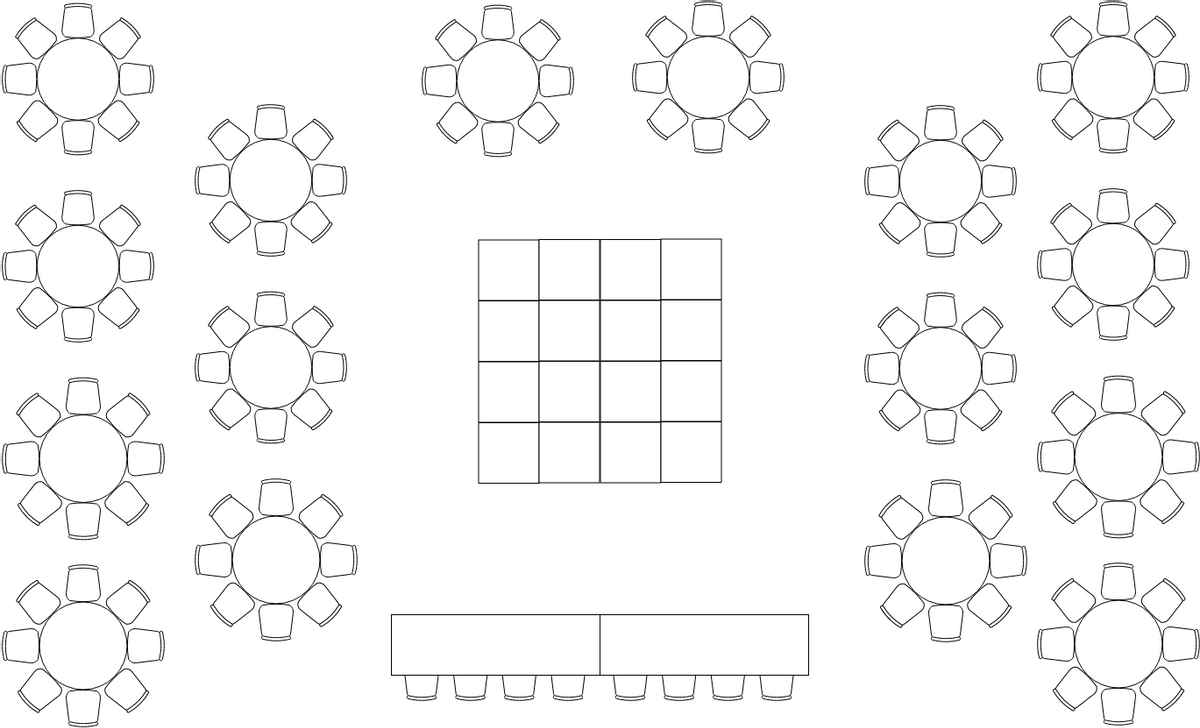
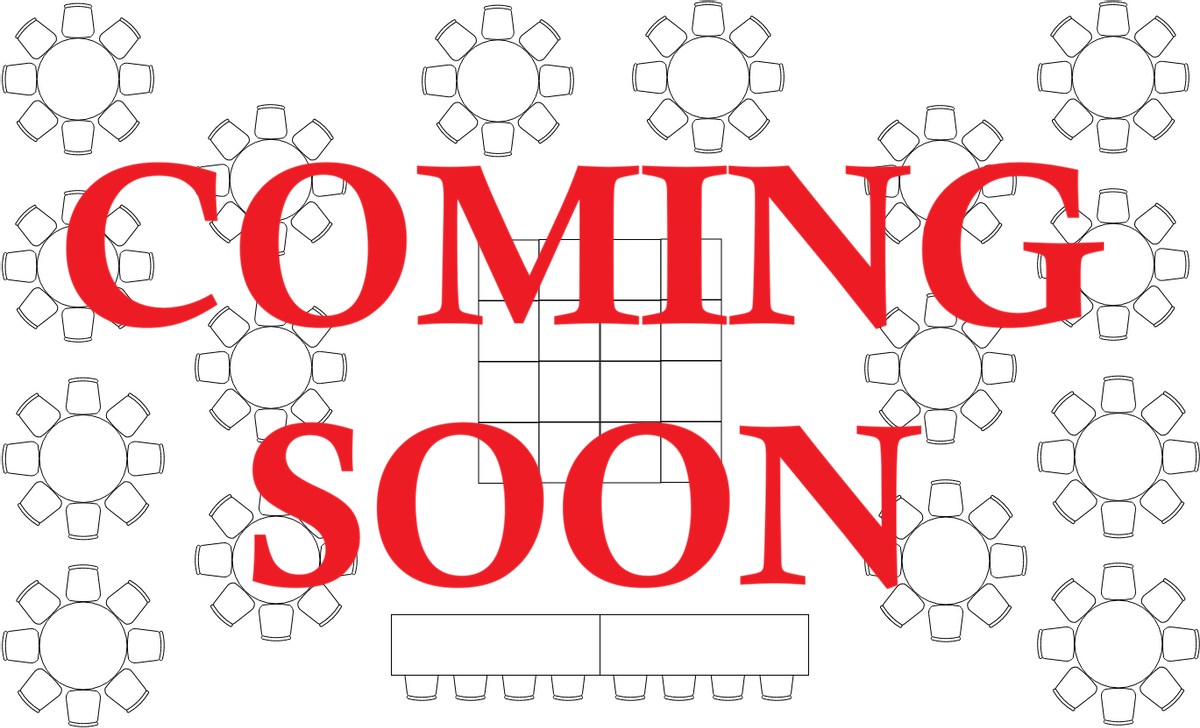
Final(tm) until seating chart and faq

diff --git a/wedding/index.html b/wedding/index.html
@@ -317,7 +317,7 @@ Site introduction.
 <br>
 
 
-Friday, October 2nd, 2026, at 3:00pm<Br>
+<b>Friday, October 2nd, 2026, starting at 3:00pm</b><Br>
 
 Inn at the Quay<Br>
 New Westminster, British Columbia
@@ -331,7 +331,7 @@ New Westminster, British Columbia
 <h1>R.S.V.P</h1>
 
 <p>
-RSVP <a href="https://docs.google.com/forms/d/e/1FAIpQLScA6IEARuIASHduQ3afCvdbExvZd3iS90lEZgU-1pfOJK5e-w/viewform">here</a> before <b>September 2nd</b>
+RSVP <a href="https://docs.google.com/forms/d/e/1FAIpQLScA6IEARuIASHduQ3afCvdbExvZd3iS90lEZgU-1pfOJK5e-w/viewform">here</a> before <b>September 1st</b>
 </p>
 
 </header>
@@ -356,10 +356,11 @@ Cards automatically rearrange depending on screen width.
 <h2 style="margin-top:18px;">Dates and Times</h2>
 
 <p>
-Friday, October 2nd, 2026
+Friday, October 2nd, 2026<br><br>
 Ceremony starts at 3:00pm <br>
 Reception at 5:00pm
 <br><br>
+Inn at the Quay<br>
 900 Quayside Dr, New Westminster, BC V3M 6G1
 </p><br><br><br>
 <iframe src="https://www.google.com/maps/embed?pb=!1m18!1m12!1m3!1d2607.0451538565235!2d-122.91521552252881!3d49.199702976625375!2m3!1f0!2f0!3f0!3m2!1i1024!2i768!4f13.1!3m3!1m2!1s0x5485d86fa358db4b%3A0x7da59db8243cb015!2sInn%20at%20the%20Quay!5e0!3m2!1sen!2sca!4v1782187012773!5m2!1sen!2sca"  style="border:0;" allowfullscreen="" loading="lazy" referrerpolicy="no-referrer-when-downgrade"></iframe>
@@ -375,7 +376,7 @@ Reception at 5:00pm
 <h2 style="margin-top:18px;">Hotel Rooms and Venue</h2>
 
 <p>
-Let us know by <b>September 2nd</b> if you want to book a hotel room at the venue for a discounted price.
+Let us know by <b>September 1st</b> if you want to book a hotel room at the venue for a discounted price.
 </p>
 
 <br>
@@ -451,9 +452,10 @@ Last call at midnight<br>
 
 <h2 style="margin-top:18px;">Requests</h2>
 
+<b>Invites / Attendance</b>
 <p>
-Only guests on the invitation list will be allowed to attend.<br> <br>
-
+Only guests on the invitation list will be allowed to attend.</p><br> <br>
+<b>End of night</b><p>
 Don't worry about finding us to say goodbye when you leave for the night, sign our good-bye-board at the event instead!
 </p>
 
@@ -465,11 +467,14 @@ Don't worry about finding us to say goodbye when you leave for the night, sign o
 <article class="box">
 
 
-<h2 style="margin-top:18px;">Registry</h2>
+<h2 style="margin-top:18px;">Gifts/Registry</h2>
 
 <p>
 
-<a href="https://www.amazon.ca/dp/B01AJANFE8/?coliid=I2Z21WXP58V0NS&colid=8VID2S9M0P1W&psc=0&ref_=list_c_wl_lv_ov_lig_dp_it">Registry (contribute to our honeymoon!)</a>
+If you're considering getting us a gift, we instead ask that you contribute to our 2027 European Honeymoon!<br><br>
+We're planning on going to Greece, Malta, Italy, the UK, and Scotland.<br><br>
+If you'd like to contribute, please e-transfer money to <b>calebtaylor26@gmail.com</b> with the message/note "honeymoon"<br><br>
+Or donate cash into our registry box at the wedding reception! Thank you!
     <div class="image-grid">
 
         <img src="greece.png">
@@ -498,6 +503,16 @@ Don't worry about finding us to say goodbye when you leave for the night, sign o
 FULL WIDTH INFORMATION SECTION
 =========================================================
 -->
+<section class="box">
+
+<h2>Frequently Asked Questions</h2>
+
+<br>
+<p>
+FAQ coming soon!
+</p>
+
+</section>
 
 <section class="box">
 
@@ -508,8 +523,8 @@ FULL WIDTH INFORMATION SECTION
 <br>
 <p>
 After 8 loving years together, Kira and Caleb are getting married on October the 2nd, 2026.
-Whether you're family, friends, or friends-of-a-friend, we'd love to celebrate our wedding with you.
-You've all shaped us into the people we are today, and can't wait to see you all in the fall. 
+Whether you're family, friends, or friends-of-a-friend, we'd love to celebrate our wedding with you all.
+You've all shaped us into the people we are today, and we can't wait to see you all in the fall. 
 </p>
 <div class="image">
 <img src="colors.jpg" alt="">
@@ -524,7 +539,7 @@ FOOTER
 
 <footer class="box">
 
-© 2026 Caleb Taylor
+We can't wait to see you there!
 
 </footer>
 
